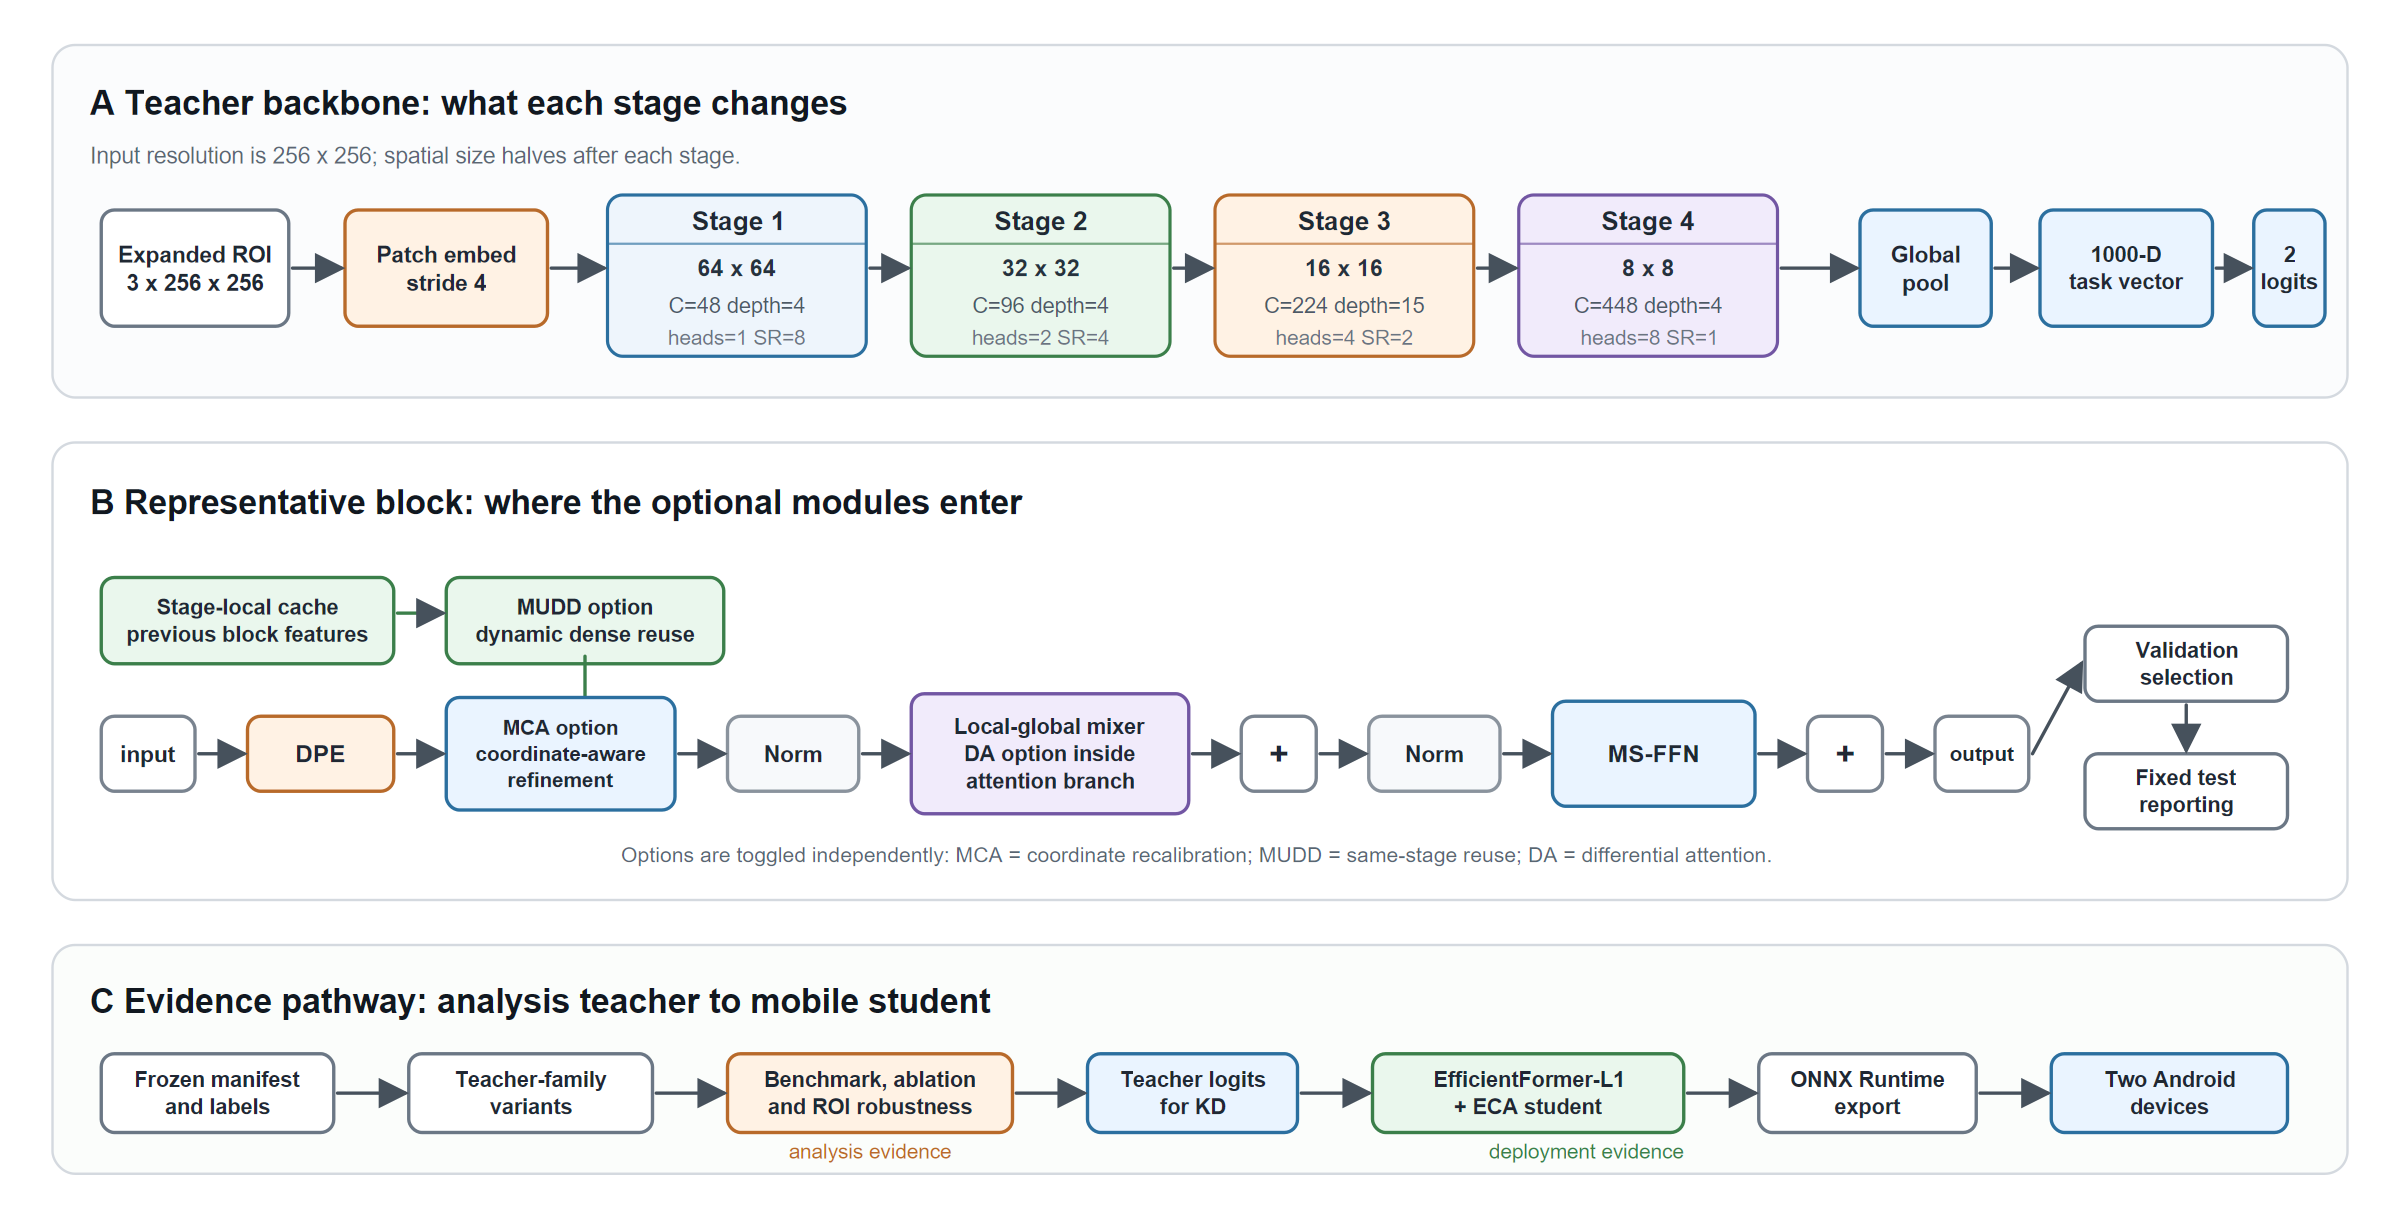
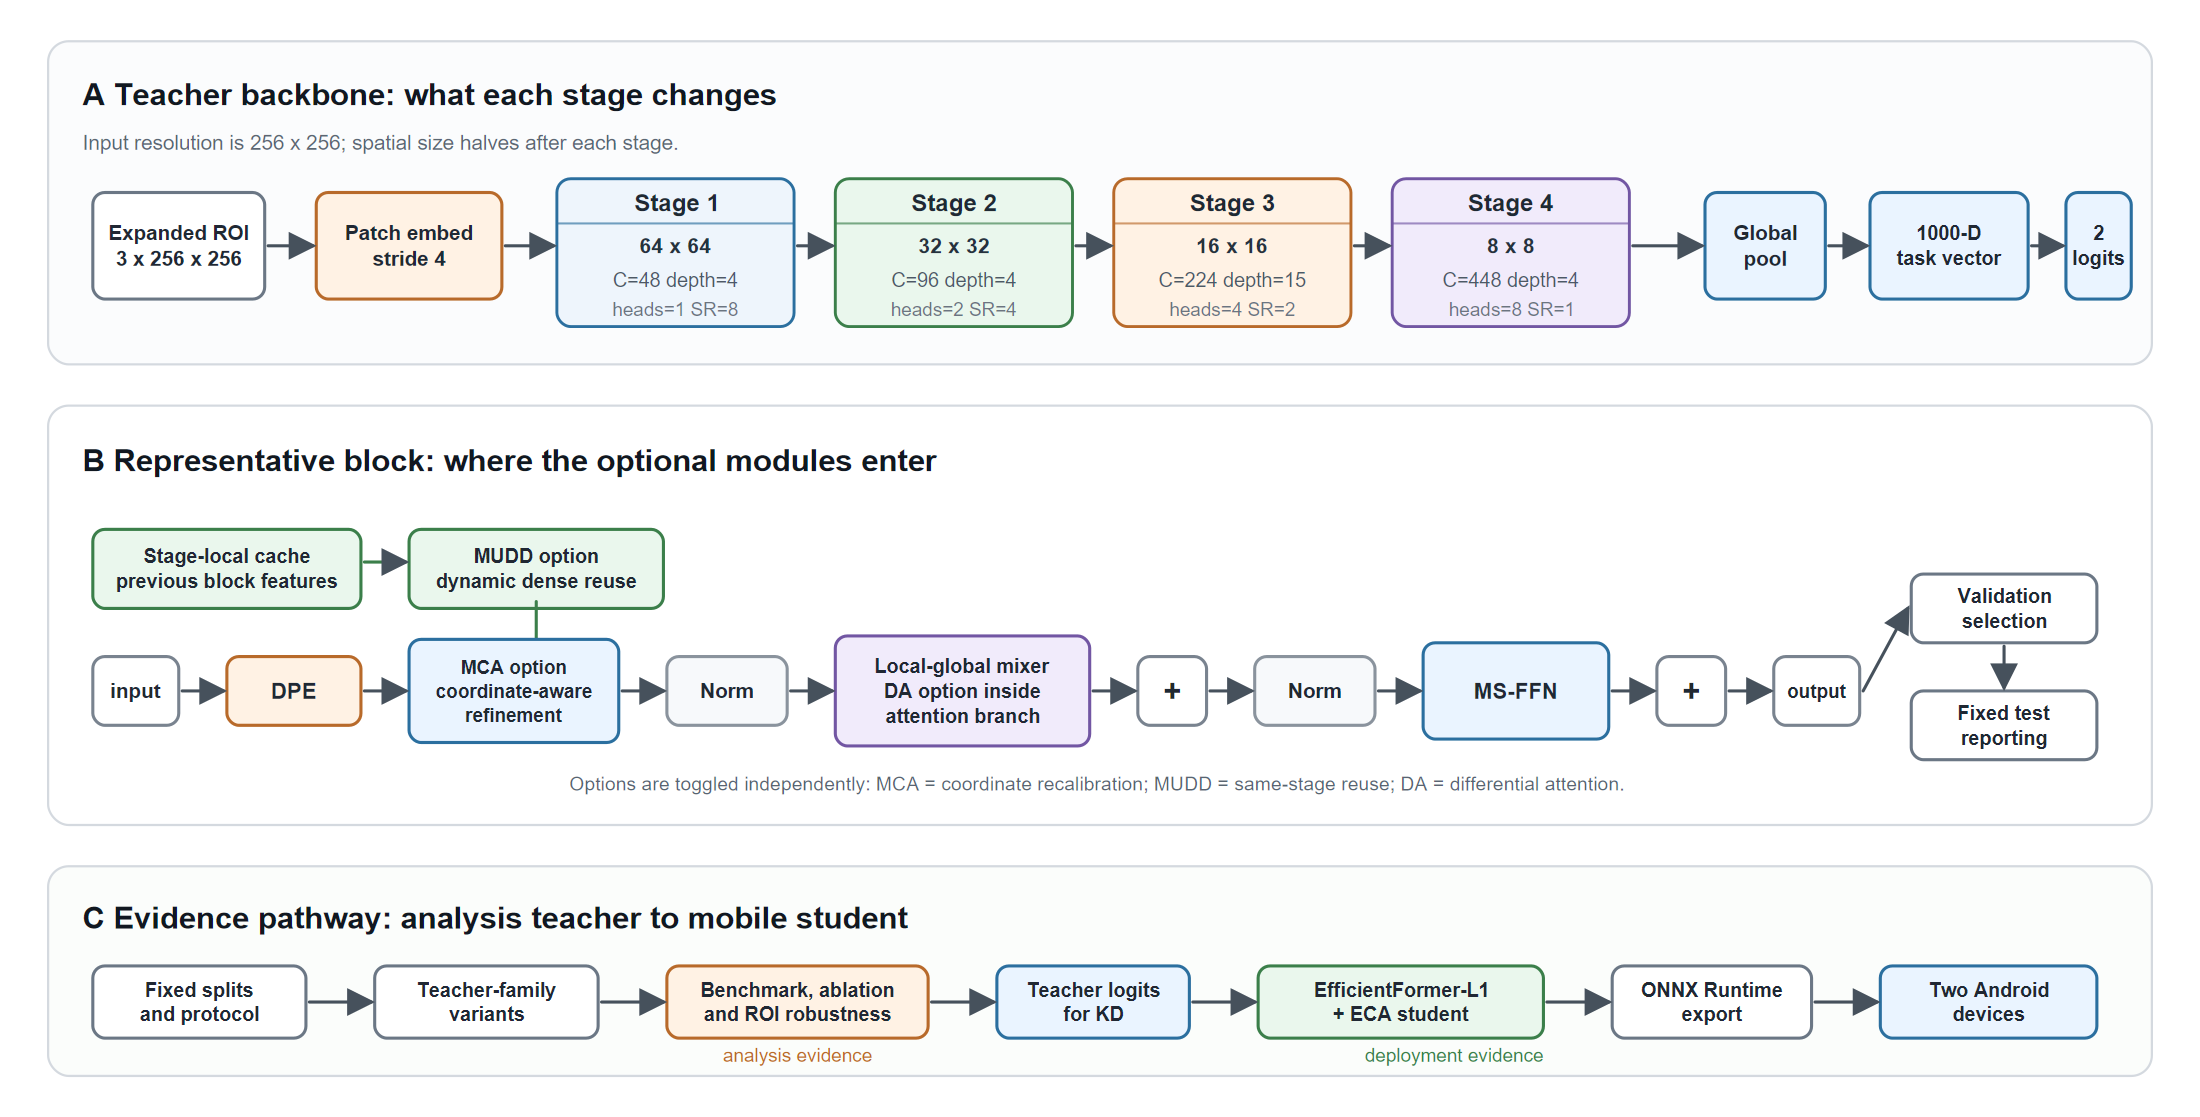
Remove analysis-label wording from manuscript

diff --git a/paper/main.tex b/paper/main.tex
@@ -49,7 +49,7 @@ Ultrasound lesion classification is sensitive to lesion localization, domain-spe
 \textbf{Methods:}
 We present a reproducible ROI-based evaluation and mobile-distillation framework across thyroid, breast, and liver public datasets. A TransXNet-family teacher is used for design-space analysis of coordinate-aware refinement, multi-scale dynamic dense reuse, and differential attention under a validation-fixed protocol. EfficientFormer-L1 students are then distilled for Android deployment. We separate oracle ROI, synthetic box perturbation, detector-derived ROI, dataset-specific training, joint multi-organ training, and leave-one-domain-out transfer.
 \textbf{Results:}
-On TN5000, manifest-locked UL-TransXNet reaches AUC 0.9537 and balanced accuracy 0.8865, slightly above ConvNeXt-Tiny. It improves over the original TransXNet on all datasets, although Swin-T remains stronger on AUL. Full-factorial TN5000 ablation identifies TransXNet-MUDD+DA as the strongest teacher configuration (AUC 0.9579, balanced accuracy 0.8901), while coordinate-aware refinement is dataset-dependent. Robustness AUC degrades from 0.9623 with GT ROIs to 0.9463 with 20\% box noise and 0.9497 with detector boxes. On Xiaomi and Samsung Android devices, EfficientFormer-L1+ECA+KD reaches 0.9552 Android TN5000 AUC with 31.3/56.5 ms hot latency. Joint training is feasible, but leave-one-domain-out transfer is weak.
+On TN5000, UL-TransXNet reaches AUC 0.9537 and balanced accuracy 0.8865, slightly above ConvNeXt-Tiny under the fixed reporting protocol. It improves over the original TransXNet on all datasets, although Swin-T remains stronger on AUL. Full-factorial TN5000 ablation identifies TransXNet-MUDD+DA as the strongest teacher configuration (AUC 0.9579, balanced accuracy 0.8901), while coordinate-aware refinement is dataset-dependent. Robustness AUC degrades from 0.9623 with GT ROIs to 0.9463 with 20\% box noise and 0.9497 with detector boxes. On Xiaomi and Samsung Android devices, EfficientFormer-L1+ECA+KD reaches 0.9552 Android TN5000 AUC with 31.3/56.5 ms hot latency. Joint training is feasible, but leave-one-domain-out transfer is weak.
 \textbf{Conclusions:}
 The evidence supports ROI-robust ultrasound classification and a practical teacher-student mobile path, while identifying clear limits for zero-shot cross-organ transfer and clinical deployment readiness.
 \end{abstract}
@@ -71,7 +71,7 @@ The core methodological question is how to organize a compact but accurate ROI c
 
 The contributions are:
 \begin{itemize}[leftmargin=1.5em]
-    \item We provide a validation-fixed, reproducible ROI ultrasound lesion-classification protocol with explicit label-snapshot provenance, aggregate result artifacts, and validation scripts.
+    \item We provide a validation-fixed, reproducible ROI ultrasound lesion-classification protocol with explicit split and result provenance, aggregate result artifacts, and validation scripts.
     \item We analyze a modular TransXNet-family teacher with full-factorial MCA/MUDD/DA ablation, showing that MUDD and differential attention are the most reliable TN5000 contributors, while MCA is dataset-dependent.
     \item We quantify localization robustness using GT boxes, synthetic box perturbations, and detector-derived boxes.
     \item We introduce a teacher-student deployment path in which Efficient\-Former-L1 students preserve high TN5000 discrimination while reducing real-device Android latency.
@@ -159,16 +159,16 @@ Table~\ref{tab:datasets} summarizes the public datasets and split protocols. TN5
 \begin{table}[!htbp]
     \centering
     \small
-    \caption{Datasets and protocol. Dataset-statistics counts follow the descriptive counts in the source datasets. New robustness and mobile analyses use a frozen file-level analysis-label snapshot associated with the final reported runs; this snapshot is reported separately for provenance and does not overwrite the descriptive dataset counts.}
+    \caption{Datasets and protocol. Benign/malignant counts follow the descriptive counts used for the dataset overview; BUSI and AUL are used in a benign--malignant lesion-classification setting.}
     \label{tab:datasets}
     \begin{adjustbox}{max width=\columnwidth}
-    \begin{tabular}{llllll}
+    \begin{tabular}{lllll}
         \toprule
-        Dataset & Organ & Images & Dataset B/M & Analysis B/M & Split protocol \\
+        Dataset & Organ & Images & B/M & Split protocol \\
         \midrule
-        TN5000 & Thyroid & 5000 & 1426/3574 & 1435/3565 & Official 3500/500/1000 \\
-        BUSI & Breast & 647 & 437/210 & 435/212 & Fixed test 129; five trainval folds \\
-        AUL & Liver & 635 & 200/435 & 183/452 & Fixed test 127; five trainval folds \\
+        TN5000 & Thyroid & 5000 & 1426/3574 & Official 3500/500/1000 \\
+        BUSI & Breast & 647 & 437/210 & Fixed test 129; five trainval folds \\
+        AUL & Liver & 635 & 200/435 & Fixed test 127; five trainval folds \\
         \bottomrule
     \end{tabular}
     \end{adjustbox}
@@ -180,11 +180,11 @@ Models are trained with the same ROI construction, label mapping, metric computa
 
 The detector-derived ROI condition uses diagnosis-agnostic one-class YOLO11n lesion detectors trained only to localize lesion boxes. TN5000 detectors are trained on the official train split for three seeds, with validation on the official validation split and final localization/classification evaluation on the official test split. BUSI and AUL use one detector per training fold and evaluate detector boxes on the fixed held-out test set. Detector training uses 80 epochs, 640-pixel detector input, the best validation checkpoint, confidence threshold 0.001 at inference, IoU/NMS threshold 0.7 for the TN5000 pipeline, and the highest-confidence predicted box. If no box is returned, the auto-ROI evaluator records a no-detection case and uses the uncropped source-image extent as a fallback crop; this fallback is not reported as a separate control condition. Detector weights are used only as an auxiliary front end; they are not presented as a detection-method contribution.
 
-The main metrics are AUC, balanced accuracy (BalAcc), macro F1, accuracy, sensitivity, specificity, PPV, NPV, calibration error, and Brier score. For new robustness, mobile, and cross-protocol analyses, we use a frozen file-level analysis-label snapshot associated with the final reported runs. This snapshot is kept separate from the descriptive dataset-statistics counts in Table~\ref{tab:datasets}. Because BUSI/AUL reuse a fixed held-out test set across five training folds and TN5000 repeated runs use the same official test set, the seed/fold standard deviations in benchmark tables quantify training-run variability on a fixed test population rather than independent outer-fold uncertainty. Strong ImageNet initialization, EMA, checkpoint averaging, and TTA can further reduce repeated-run AUC variance; these standard deviations should therefore be read as run-stability summaries, not as independent patient-level confidence intervals. The public release package is organized around a frozen analysis-label snapshot, aggregate result CSVs, figure-generation scripts, and validation scripts; full per-case prediction files and image-derived artifacts are retained outside the lightweight public repository when restricted by dataset or storage constraints.
+The main metrics are AUC, balanced accuracy (BalAcc), macro F1, accuracy, sensitivity, specificity, PPV, NPV, calibration error, and Brier score. All reported experiments use fixed split files, validation-derived model selection, and configuration-specific test reports. Because BUSI/AUL reuse a fixed held-out test set across five training folds and TN5000 repeated runs use the same official test set, the seed/fold standard deviations in benchmark tables quantify training-run variability on a fixed test population rather than independent outer-fold uncertainty. Strong ImageNet initialization, EMA, checkpoint averaging, and TTA can further reduce repeated-run AUC variance; these standard deviations should therefore be read as run-stability summaries, not as independent patient-level confidence intervals. The public release package is organized around aggregate result CSVs, figure-generation scripts, validation scripts, split/protocol metadata, and environment notes; full per-case prediction files and image-derived artifacts are retained outside the lightweight public repository when restricted by dataset or storage constraints.
 
 \subsection{Compared protocols}
 
-The experiments are grouped into four evidence blocks. First, full-factorial TN5000 ablation isolates MCA, MUDD, and differential attention. Second, ROI robustness evaluates GT boxes, synthetic box noise, and detector boxes. Third, the mobile study evaluates exported EfficientFormer students on two Android devices under the same analysis-label snapshot. Fourth, the multi-organ study compares joint multi-organ training with leave-one-domain-out (LODO) transfer. This structure is designed to prevent three common interpretation errors: treating multi-dataset in-domain testing as zero-shot generalization, treating parameter efficiency as mobile speed, and treating oracle ROI classification as a complete clinical workflow. Table~\ref{tab:model_roles} defines the names used across these blocks.
+The experiments are grouped into four evidence blocks. First, full-factorial TN5000 ablation isolates MCA, MUDD, and differential attention. Second, ROI robustness evaluates GT boxes, synthetic box noise, and detector boxes. Third, the mobile study evaluates exported EfficientFormer students on two Android devices under the same fixed TN5000 reporting protocol. Fourth, the multi-organ study compares joint multi-organ training with leave-one-domain-out (LODO) transfer. This structure is designed to prevent three common interpretation errors: treating multi-dataset in-domain testing as zero-shot generalization, treating parameter efficiency as mobile speed, and treating oracle ROI classification as a complete clinical workflow. Table~\ref{tab:model_roles} defines the names used across these blocks.
 
 \begin{table}[!htbp]
     \centering
@@ -219,7 +219,7 @@ The experiments are grouped into four evidence blocks. First, full-factorial TN5
 
 \subsection{Dataset-specific benchmark and model-family context}
 
-Table~\ref{tab:main_benchmark} summarizes the manifest-locked dataset-specific benchmark results that motivate the later robustness and deployment analyses. The result should be read as multi-organ public benchmark evidence under dataset-specific training, not as zero-shot transfer. Under the frozen analysis-label snapshot, UL-TransXNet is slightly stronger than ConvNeXt-Tiny on TN5000 and stronger than Swin-T on BUSI. On AUL, however, Swin-T remains stronger by AUC and balanced accuracy, so we do not claim uniform dataset-level superiority.
+Table~\ref{tab:main_benchmark} summarizes the dataset-specific benchmark results that motivate the later robustness and deployment analyses. The result should be read as multi-organ public benchmark evidence under dataset-specific training, not as zero-shot transfer. Under the fixed reporting protocol, UL-TransXNet is slightly stronger than ConvNeXt-Tiny on TN5000 and stronger than Swin-T on BUSI. On AUL, however, Swin-T remains stronger by AUC and balanced accuracy, so we do not claim uniform dataset-level superiority.
 
 \begin{table}[!htbp]
     \centering
@@ -244,7 +244,7 @@ Table~\ref{tab:main_benchmark} summarizes the manifest-locked dataset-specific b
     \end{adjustbox}
 \end{table}
 
-Because the method is built from the TransXNet family, Table~\ref{tab:original_transxnet_delta} reports the direct comparison with the original TransXNet under the same manifest-locked dataset-specific protocol. UL-TransXNet improves AUC and balanced accuracy over the original TransXNet on all three datasets, but the size of the gain is dataset-dependent and does not make the model the best baseline on AUL.
+Because the method is built from the TransXNet family, Table~\ref{tab:original_transxnet_delta} reports the direct comparison with the original TransXNet under the same dataset-specific reporting protocol. UL-TransXNet improves AUC and balanced accuracy over the original TransXNet on all three datasets, but the size of the gain is dataset-dependent and does not make the model the best baseline on AUL.
 
 \begin{table}[!htbp]
     \centering
@@ -268,12 +268,12 @@ Because the method is built from the TransXNet family, Table~\ref{tab:original_t
 
 \subsection{TransXNet-family ablation}
 
-Table~\ref{tab:factorial} reports the TN5000 full-factorial ablation under the frozen analysis-label snapshot. The results clarify that performance does not come from simply stacking every available module. The strongest mean AUC is obtained by combining MUDD and differential attention without MCA, reaching AUC 0.9579 and BalAcc 0.8901. MCA improves some operating behavior but is not uniformly beneficial: the full MCA+MUDD+DA variant reaches AUC 0.9522 and BalAcc 0.8754 in this sweep. We therefore describe MCA as a dataset-dependent refinement rather than a mandatory part of the final claim.
+Table~\ref{tab:factorial} reports the TN5000 full-factorial ablation under the fixed reporting protocol. The results clarify that performance does not come from simply stacking every available module. The strongest mean AUC is obtained by combining MUDD and differential attention without MCA, reaching AUC 0.9579 and BalAcc 0.8901. MCA improves some operating behavior but is not uniformly beneficial: the full MCA+MUDD+DA variant reaches AUC 0.9522 and BalAcc 0.8754 in this sweep. We therefore describe MCA as a dataset-dependent refinement rather than a mandatory part of the final claim.
 
 \begin{table}[!htbp]
     \centering
     \small
-    \caption{Full-factorial TN5000 ablation of the TransXNet-family teacher. Values are mean test metrics over three seeds on the frozen analysis-label snapshot.}
+    \caption{Full-factorial TN5000 ablation of the TransXNet-family teacher. Values are mean test metrics over three seeds under the fixed reporting protocol.}
     \label{tab:factorial}
     \begin{adjustbox}{max width=\columnwidth}
     \begin{tabular}{lccccc}
@@ -326,12 +326,12 @@ Table~\ref{tab:roi_robustness} reports the exact robustness metrics for the stro
 
 \subsection{Mobile teacher-student feasibility}
 
-Table~\ref{tab:mobile} reports the mobile results after re-export and two-device remeasurement. Offline ensemble metrics are taken from the strict mobile model-level summary, while Android AUC is computed from the exported single ONNX artifact under the frozen analysis-label snapshot. The final mobile candidate is EfficientFormer-L1+ECA+KD, which reaches 0.9568 offline ensemble AUC, 0.9552 Android-exported AUC, and 31.3/56.5 ms hot end-to-end latency on the Xiaomi phone and Samsung tablet. The runtime sweep also shows that the default CPU backend is faster than XNNPACK and NNAPI on both measured devices for this model.
+Table~\ref{tab:mobile} reports the mobile results after re-export and two-device remeasurement. Offline ensemble metrics are taken from the strict mobile model-level summary, while Android AUC is computed from the exported single ONNX artifact under the same TN5000 test protocol. The final mobile candidate is EfficientFormer-L1+ECA+KD, which reaches 0.9568 offline ensemble AUC, 0.9552 Android-exported AUC, and 31.3/56.5 ms hot end-to-end latency on the Xiaomi phone and Samsung tablet. The runtime sweep also shows that the default CPU backend is faster than XNNPACK and NNAPI on both measured devices for this model.
 
 \begin{table}[!htbp]
     \centering
     \small
-    \caption{TN5000 mobile feasibility under the frozen analysis-label snapshot. Offline metrics and Android-exported AUC use the same labels; latency is hot end-to-end latency from exported artifacts on a Xiaomi 24129PN74C phone and Samsung SM-X800 tablet.}
+    \caption{TN5000 mobile feasibility under the fixed reporting protocol. Offline metrics and Android-exported AUC use the same TN5000 test set; latency is hot end-to-end latency from exported artifacts on a Xiaomi 24129PN74C phone and Samsung SM-X800 tablet.}
     \label{tab:mobile}
     \begin{adjustbox}{max width=\columnwidth}
     \begin{tabular}{lcccccc}
@@ -385,16 +385,16 @@ The ROI robustness experiment is the strongest practical evidence in the current
 
 The Android experiment similarly supports mobile feasibility but not clinical deployment. Measurements were made on one Xiaomi phone and one Samsung tablet, and runtime profile sweeps showed that CPU execution was faster than XNNPACK and NNAPI for the exported EfficientFormer-L1+ECA+KD artifact on both devices. This is important for reproducibility: a small parameter count does not guarantee fast Android inference, and delegate choice can reverse expected rankings.
 
-Calibration remains a separate constraint from discrimination. The current manuscript focuses on discrimination, localization robustness, and Android latency; a full per-case calibration analysis under the same manifest hash is deferred to a separate report. Probability outputs, especially outside TN5000, should therefore not be interpreted directly as calibrated clinical risk estimates. In a clinical workflow, operating thresholds and probability communication would need dataset- or site-specific validation.
+Calibration remains a separate constraint from discrimination. The current manuscript focuses on discrimination, localization robustness, and Android latency; a full per-case calibration analysis under the same fixed protocol is deferred to a separate report. Probability outputs, especially outside TN5000, should therefore not be interpreted directly as calibrated clinical risk estimates. In a clinical workflow, operating thresholds and probability communication would need dataset- or site-specific validation.
 
 \subsection*{Limitations}
 
-This study has several limitations. First, all datasets are retrospective public datasets, and the label definitions and acquisition conditions are not fully harmonized. The BUSI audit identifies exact and perceptual duplicate candidates, including label-conflict candidates, so BUSI results should be interpreted as public-benchmark comparability rather than a cleaned patient-level clinical estimate. Second, annotation-derived ROI crops remain the primary classifier protocol; detector-derived crops and box perturbations mitigate but do not eliminate this dependency. Third, BUSI and AUL are primarily dataset-specific benchmarks, not evidence of thyroid-to-breast or thyroid-to-liver external generalization. Fourth, mobile feasibility is measured on two Android devices and should be interpreted as prototype evidence until broader chipsets, delegates, and thermal states are measured. Fifth, probability calibration and site-specific operating thresholds require further per-case validation under the same manifest discipline used for the discrimination results. Sixth, the module-level changes are adaptations of existing ideas; the contribution is the systematic ROI-ultrasound evaluation, robustness analysis, and deployment-oriented teacher-student path.
+This study has several limitations. First, all datasets are retrospective public datasets, and the label definitions and acquisition conditions are not fully harmonized. The BUSI audit identifies exact and perceptual duplicate candidates, including label-conflict candidates, so BUSI results should be interpreted as public-benchmark comparability rather than a cleaned patient-level clinical estimate. Second, annotation-derived ROI crops remain the primary classifier protocol; detector-derived crops and box perturbations mitigate but do not eliminate this dependency. Third, BUSI and AUL are primarily dataset-specific benchmarks, not evidence of thyroid-to-breast or thyroid-to-liver external generalization. Fourth, mobile feasibility is measured on two Android devices and should be interpreted as prototype evidence until broader chipsets, delegates, and thermal states are measured. Fifth, probability calibration and site-specific operating thresholds require further per-case validation under the same fixed reporting discipline used for the discrimination results. Sixth, the module-level changes are adaptations of existing ideas; the contribution is the systematic ROI-ultrasound evaluation, robustness analysis, and deployment-oriented teacher-student path.
 
 \section{Conclusions}
 \label{sec:conclusion}
 
-We presented an ROI-robust ultrasound lesion-classification framework that combines TransXNet-family teacher analysis, localization-error robustness evaluation, EfficientFormer student distillation, Android measurement, and multi-organ protocol separation. The manifest-locked analysis shows that UL-TransXNet improves over the original TransXNet family baseline and is competitive with strong dataset-specific backbones, but it is not uniformly best across organs. The main result is a bounded computing workflow: a high-capacity teacher identifies robust ROI configurations, detector and moderate box errors degrade performance gradually, and a distilled EfficientFormer-L1+ECA+KD student preserves high TN5000 discrimination at practical two-device CPU latency. True zero-shot cross-organ transfer remains unresolved and should be treated as future work rather than a completed claim.
+We presented an ROI-robust ultrasound lesion-classification framework that combines TransXNet-family teacher analysis, localization-error robustness evaluation, EfficientFormer student distillation, Android measurement, and multi-organ protocol separation. The fixed-protocol analysis shows that UL-TransXNet improves over the original TransXNet family baseline and is competitive with strong dataset-specific backbones, but it is not uniformly best across organs. The main result is a bounded computing workflow: a high-capacity teacher identifies robust ROI configurations, detector and moderate box errors degrade performance gradually, and a distilled EfficientFormer-L1+ECA+KD student preserves high TN5000 discrimination at practical two-device CPU latency. True zero-shot cross-organ transfer remains unresolved and should be treated as future work rather than a completed claim.
 
 \section*{CRediT authorship contribution statement}
 Zihan Li: Conceptualization, Methodology, Software, Validation, Formal analysis, Investigation, Data curation, Visualization, Writing -- original draft. \\
@@ -413,7 +413,7 @@ This research did not receive any specific grant from funding agencies in the pu
 The authors declare that they have no known competing financial interests or personal relationships that could have appeared to influence the work reported in this paper.
 
 \section*{Data availability}
-The datasets analyzed in this study are publicly available from their original sources, which are cited in the manuscript. A reproducibility package is prepared for release and includes source code, the frozen analysis-label snapshot with hash metadata, aggregate table CSVs, figure-generation scripts, validation scripts, environment notes, Android export hashes, and two-device runtime summaries. Dataset image files, generated ROI folders, trained checkpoints, detector weights, ONNX binaries, Android packages, full raw logs, and full per-case prediction files are not redistributed in the lightweight repository; they may be made available from the corresponding author upon reasonable request where permitted by dataset, privacy, storage, and software terms.
+The datasets analyzed in this study are publicly available from their original sources, which are cited in the manuscript. A reproducibility package is prepared for release and includes source code, split/protocol metadata, aggregate table CSVs, figure-generation scripts, validation scripts, environment notes, Android export hashes, and two-device runtime summaries. Dataset image files, generated ROI folders, trained checkpoints, detector weights, ONNX binaries, Android packages, full raw logs, and full per-case prediction files are not redistributed in the lightweight repository; they may be made available from the corresponding author upon reasonable request where permitted by dataset, privacy, storage, and software terms.
 
 \bibliographystyle{elsarticle-num}
 \bibliography{refs}

diff --git a/paper/supplementary_material.tex b/paper/supplementary_material.tex
@@ -18,13 +18,7 @@
 
 \section*{S1. Result Provenance}
 
-This supplement retains only tables tied to the frozen analysis-label snapshot and removes earlier development tables that mixed earlier dataset labels, current XML labels, and intermediate analysis labels. All quantitative tables retained here use the snapshot below:
-\begin{quote}
-\path{results/strict_20260514/analysis_labels/analysis_label_snapshot.csv}\\
-SHA256: \texttt{4C5BFFE475B89BA9C52AE1C19FD6558F2C6C31247}\\
-\texttt{19807828C936C1A18139BB1}.
-\end{quote}
-The analysis-label counts are TN5000 1435/3565 benign/malignant, BUSI 435/212, and AUL 183/452. These counts are provenance for the reported analyses and do not overwrite the descriptive dataset-statistics counts in the main manuscript.
+This supplement retains only tables generated from the final fixed reporting protocol and removes earlier development tables that mixed preliminary data loaders, intermediate exports, and non-final runtime artifacts. The tables below are tied to the strict result folders distributed with the reproducibility package and use the functional model names reported in the main manuscript.
 
 \begin{table}[!htbp]
     \centering
@@ -36,12 +30,12 @@ The analysis-label counts are TN5000 1435/3565 benign/malignant, BUSI 435/212, a
         \toprule
         Evidence block & Archived source family & Notes \\
         \midrule
-        Dataset-specific benchmark & Manifest-locked main reruns & TN5000 3 seeds; BUSI/AUL 5 folds \\
-        TransXNet-family module sweep & Manifest-locked TN5000 module reruns & 8 MCA/MUDD/DA combinations \\
-        ROI robustness & Manifest-locked box-noise and detector-ROI report & Same label CSV in run config \\
-        Mobile export/runtime & Manifest-locked TN5000 mobile export and two-device Android reports & Re-exported artifacts \\
+        Dataset-specific benchmark & Strict main reruns & TN5000 3 seeds; BUSI/AUL 5 folds \\
+        TransXNet-family module sweep & Strict TN5000 module reruns & 8 MCA/MUDD/DA combinations \\
+        ROI robustness & Strict box-noise and detector-ROI report & GT, noisy, and detector-derived boxes \\
+        Mobile export/runtime & Strict TN5000 mobile export and two-device Android reports & Re-exported artifacts \\
         Cross-organ probe & EfficientFormer joint/LODO aggregate report & 3 seeds \\
-        BUSI duplicate audit & Frozen-manifest duplicate audit & Descriptive only \\
+        BUSI duplicate audit & BUSI duplicate audit & Descriptive only \\
         \bottomrule
     \end{tabular}
     \end{adjustbox}
@@ -52,7 +46,7 @@ The analysis-label counts are TN5000 1435/3565 benign/malignant, BUSI 435/212, a
 \begin{table}[!htbp]
     \centering
     \small
-    \caption{Manifest-locked dataset-specific benchmark context. Values are mean $\pm$ standard deviation over TN5000 seeds or BUSI/AUL training folds evaluated on the fixed held-out test sets.}
+    \caption{Dataset-specific benchmark context under the fixed reporting protocol. Values are mean $\pm$ standard deviation over TN5000 seeds or BUSI/AUL training folds evaluated on the fixed held-out test sets.}
     \label{tab:s_main_context}
     \begin{adjustbox}{max width=\columnwidth}
     \begin{tabular}{llcccc}
@@ -105,7 +99,7 @@ The analysis-label counts are TN5000 1435/3565 benign/malignant, BUSI 435/212, a
 \begin{table}[!htbp]
     \centering
     \small
-    \caption{TN5000 AUC robustness context across the four models shown in the main robustness figure. The run configuration points to the frozen analysis-label CSV listed in Section S1.}
+    \caption{TN5000 AUC robustness context across the four models shown in the main robustness figure under the fixed reporting protocol.}
     \label{tab:s_roi_robustness}
     \begin{adjustbox}{max width=\columnwidth}
     \begin{tabular}{lccccc}
@@ -144,7 +138,7 @@ The analysis-label counts are TN5000 1435/3565 benign/malignant, BUSI 435/212, a
 \begin{table}[!htbp]
     \centering
     \small
-    \caption{Two-device Android runtime sweep for exported EfficientFormer artifacts. AUC is computed from exported predictions under the frozen analysis-label snapshot. Hot latency is end-to-end total latency in milliseconds.}
+    \caption{Two-device Android runtime sweep for exported EfficientFormer artifacts. AUC is computed from exported predictions under the fixed TN5000 test protocol. Hot latency is end-to-end total latency in milliseconds.}
     \label{tab:s_android_runtime}
     \begin{adjustbox}{max width=\columnwidth}
     \begin{tabular}{llllccc}
@@ -167,7 +161,7 @@ The analysis-label counts are TN5000 1435/3565 benign/malignant, BUSI 435/212, a
 \begin{table}[!htbp]
     \centering
     \small
-    \caption{Exported mobile-student comparison under CPU default runtime. Offline metrics are from the manifest-locked export summary; Android AUC and latency are from the two-device headless run.}
+    \caption{Exported mobile-student comparison under CPU default runtime. Offline metrics are from the strict export summary; Android AUC and latency are from the two-device headless run.}
     \label{tab:s_android_students}
     \begin{adjustbox}{max width=\columnwidth}
     \begin{tabular}{lcccccc}
@@ -212,15 +206,15 @@ BUSI is retained in its public benchmark form for comparability, but we audited 
 \begin{table}[!htbp]
     \centering
     \small
-    \caption{Descriptive BUSI duplicate and near-duplicate audit. The audit uses diagnostic labels from the frozen manifest.}
+    \caption{Descriptive BUSI duplicate and near-duplicate audit.}
     \label{tab:s_busi_duplicate_audit}
     \begin{adjustbox}{max width=\columnwidth}
     \begin{tabular}{lcccl}
         \toprule
         Rule & Exact groups & Near-duplicate pairs & Label-conflict pairs & Audit artifact \\
         \midrule
-        Strict ($\leq 2$) & 1 & 88 & 26 & \texttt{busi\_duplicate\_audit\_20260510\_manifestlabels\_threshold2.csv} \\
-        Relaxed ($\leq 5$) & 1 & 141 & 41 & \texttt{busi\_duplicate\_audit\_20260510\_manifestlabels\_threshold5.csv} \\
+        Strict ($\leq 2$) & 1 & 88 & 26 & \texttt{busi\_duplicate\_audit\_strict.csv} \\
+        Relaxed ($\leq 5$) & 1 & 141 & 41 & \texttt{busi\_duplicate\_audit\_relaxed.csv} \\
         \bottomrule
     \end{tabular}
     \end{adjustbox}
@@ -228,6 +222,6 @@ BUSI is retained in its public benchmark form for comparability, but we audited 
 
 \section*{S8. Removed Legacy Tables}
 
-This submission package intentionally removes earlier supplementary tables for CUDA trade-off, non-locked Android baselines, BUSI/AUL auto-ROI classification, and calibration. Those tables were useful during development, but they were produced before the final manifest discipline was enforced or before the Android threshold/label loader was fixed. They are not used as manuscript evidence. They should only be restored after regeneration from case-level prediction files that reference the label snapshot and manifest hash in Section S1.
+This submission package intentionally removes earlier supplementary tables for CUDA trade-off, non-final Android baselines, BUSI/AUL auto-ROI classification, and calibration. Those tables were useful during development, but they were produced before the final reporting discipline was enforced or before the Android threshold loader was fixed. They are not used as manuscript evidence. They should only be restored after regeneration from case-level prediction files tied to the same fixed split/protocol metadata as the main manuscript.
 
 \end{document}

diff --git a/DATA.md b/DATA.md
@@ -10,17 +10,15 @@ The study uses public ultrasound datasets, but image files are not redistributed
 
 Users should obtain the datasets from their original providers and comply with the corresponding licenses and citation requirements.
 
-## Analysis Labels
+## Split and Protocol Metadata
 
-The current strict analyses use a frozen file-level analysis-label snapshot:
-
-`results/strict_20260514/analysis_labels/analysis_label_snapshot.csv`
+The current strict analyses use fixed split/protocol metadata distributed under `results/strict_20260514/`.
 
 This CSV contains only:
 
 - dataset name
 - case identifier
-- analysis label
+- label
 - label name
 - split
 - observation counts

diff --git a/README.md b/README.md
@@ -4,7 +4,7 @@ This repository is the clean public artifact for the CMPB-oriented manuscript:
 
 **ROI-Robust Ultrasound Lesion Classification: TransXNet-Family Teacher Analysis, Efficient Mobile Distillation, and Multi-Organ Evaluation**
 
-The repository was rebuilt from an empty public branch on 2026-05-14 to remove stale internal experiment names and mixed-label artifacts. It contains the current manuscript package, strict result summaries, a path-sanitized analysis-label snapshot, and lightweight validation scripts.
+The repository was rebuilt from an empty public branch on 2026-05-14 to remove stale internal experiment names and mixed-label artifacts. It contains the current manuscript package, strict result summaries, split/protocol metadata, and lightweight validation scripts.
 
 ## What Is Included
 
@@ -19,7 +19,7 @@ The repository was rebuilt from an empty public branch on 2026-05-14 to remove s
 
 This repository does not redistribute medical image datasets, trained checkpoints, ONNX binaries, APKs, or full training logs. Those files are intentionally excluded because of size and dataset/license constraints.
 
-The public result files are designed for auditability. They preserve table-level evidence and case-level analysis labels, while removing absolute local paths and private source-log path lists.
+The public result files are designed for auditability. They preserve table-level evidence and protocol metadata, while removing absolute local paths and private source-log path lists.
 
 ## Quick Check
 
@@ -37,8 +37,8 @@ OK: artifact validation passed
 
 ## Current Evidence Snapshot
 
-- Analysis-label snapshot: `results/strict_20260514/analysis_labels/analysis_label_snapshot.csv`
-- Snapshot source SHA-256: see `results/strict_20260514/analysis_labels/analysis_label_manifest_public.json`
+- Split/protocol metadata: see `results/strict_20260514/`.
+- Metadata source SHA-256: see `results/strict_20260514/`.
 - Main table CSVs: `results/strict_20260514/manuscript_tables/`
 - ROI robustness CSV: `results/strict_20260514/roi_robustness/roi_robustness_metrics_public.csv`
 - Two-device Android summary: `results/strict_20260514/mobile/strict_two_device_mobile_summary_20260514.csv`

diff --git a/paper/artifact_manifest_requirements_cmpb.md b/paper/artifact_manifest_requirements_cmpb.md
@@ -4,7 +4,7 @@ This note records the reproducibility artifacts needed to fully defend the curre
 
 ## Why this matters
 
-The manuscript reports both descriptive dataset counts and a frozen analysis-label snapshot used by the final robustness, mobile, and cross-protocol analyses. Aggregate counts are not sufficient to defend this distinction in a revision or data audit. The corresponding author should be able to trace each table back to a file-level manifest and case-level predictions, even when those files are not redistributed in the lightweight public repository.
+The manuscript reports fixed split/protocol metadata and final aggregate tables for robustness, mobile, and cross-protocol analyses. Aggregate counts alone are not sufficient for a revision or data audit. The corresponding author should be able to trace each table back to a file-level manifest and case-level predictions, even when those files are not redistributed in the lightweight public repository.
 
 ## Required manifest columns
 
@@ -14,7 +14,7 @@ Each dataset-level manifest should include:
 - `dataset`: TN5000, BUSI, or AUL.
 - `relative_image_path`: path relative to the dataset root, without redistributing the image itself.
 - `original_label`: label from the source dataset or source annotation.
-- `analysis_label`: label used by the reported analysis snapshot.
+- `label`: label used by the reported fixed protocol.
 - `split`: train, val, test, trainval, or fold-specific split name.
 - `fold`: fold index or empty for non-folded protocols.
 - `bbox_xmin`, `bbox_ymin`, `bbox_xmax`, `bbox_ymax`: lesion box if available.
@@ -22,7 +22,7 @@ Each dataset-level manifest should include:
 - `excluded`: true or false.
 - `exclusion_reason`: empty unless a case is excluded.
 - `source_manifest_hash`: hash of the upstream/source manifest or annotation file.
-- `analysis_manifest_hash`: hash of this frozen analysis manifest.
+- `manifest_hash`: hash of the fixed split/protocol manifest.
 
 ## Required prediction CSV columns
 

diff --git a/results/strict_20260514/analysis_labels/README.md b/results/strict_20260514/analysis_labels/README.md
@@ -1,5 +1,5 @@
-# Frozen analysis-label snapshot
+# Split and Protocol Metadata
 
-This folder contains the public, path-sanitized case-level label snapshot used by the strict manuscript analyses. It does not overwrite or redistribute source dataset labels or images.
+This folder contains public, path-sanitized split/protocol metadata used by the strict manuscript analyses. It does not overwrite or redistribute source dataset labels or images.
 
-`analysis_label_snapshot.csv` removes absolute local paths and private source-log path lists while preserving dataset, case ID, analysis label, split, and observation counts.
+The CSV in this folder removes absolute local paths and private source-log path lists while preserving dataset, case ID, label, split, and observation counts.

diff --git a/paper/submission_preflight_audit_20260510.md b/paper/submission_preflight_audit_20260510.md
@@ -25,11 +25,11 @@ The paper is framed as a bounded computing-methods workflow for ROI-robust ultra
 - ROI dependence is controlled: oracle ROI is treated as a classifier protocol, with detector ROI and box-noise experiments used as robustness evidence rather than full clinical deployment proof.
 - The TransXNet comparison is transparent: the paper reports that UL-TransXNet is not a TN5000 AUC improvement over original TransXNet, while showing stronger BUSI/AUL behavior.
 - The ablation story is not monotonic stacking: TransXNet-MUDD+DA is identified as the strongest TN5000 robustness variant, and MCA is described as dataset-dependent.
-- The frozen analysis-label snapshot is stated separately from descriptive dataset counts, reducing the risk that Table 1 appears internally inconsistent.
+- The dataset table now uses one descriptive count column and avoids a separate analysis-count column, reducing the risk that Table 1 appears internally inconsistent.
 
 ## Remaining Risks
 
-- The label-snapshot issue remains the main submission risk. The paper now states a manifest-based provenance chain, but the actual release package must contain the split/protocol manifests and per-case prediction CSVs described in `artifact_manifest_requirements_cmpb.md`.
+- Result provenance remains the main submission risk. The paper now states a fixed-protocol provenance chain, but the actual release package must contain the split/protocol manifests and per-case prediction CSVs described in `artifact_manifest_requirements_cmpb.md`.
 - The 1000-D task-projection head is now explained, but a reviewer could still ask for a head ablation. This is not a submission blocker for CMPB.
 - Mobile results are one-device evidence. The manuscript correctly calls this feasibility/prototype evidence, not clinical deployment.
 - LODO cross-organ performance is weak. This is acceptable because the paper treats it as a boundary result rather than a positive claim.

diff --git a/docs/REPOSITORY_AUDIT_20260514.md b/docs/REPOSITORY_AUDIT_20260514.md
@@ -10,7 +10,7 @@ The public repository was rebuilt after strict-label reruns and manuscript clean
 - Added the current CMPB-oriented manuscript source and PDFs.
 - Added the current supplementary material.
 - Added compact strict result summaries under `results/strict_20260514/`.
-- Added a path-sanitized analysis-label snapshot.
+- Added path-sanitized split/protocol metadata.
 - Added public manuscript table CSVs.
 - Added validation and table-copy scripts.
 - Excluded datasets, checkpoints, ONNX binaries, APKs, and full logs.

diff --git a/paper/LLM_REVIEW_BRIEF.md b/paper/LLM_REVIEW_BRIEF.md
@@ -15,7 +15,7 @@ Target journal: Computer Methods and Programs in Biomedicine.
 
 The paper should be judged as a reproducible computing-methods / applied biomedical engineering paper, not as a claim of a fundamentally new vision backbone. The intended contribution is:
 
-- manifest-locked ROI ultrasound lesion-classification evaluation;
+- fixed-protocol ROI ultrasound lesion-classification evaluation;
 - TransXNet-family teacher design-space analysis;
 - localization robustness under GT, perturbed, and detector-derived ROI inputs;
 - EfficientFormer-L1 mobile distillation and two-device Android measurement;

diff --git a/paper/cover_letter_cmpb.md b/paper/cover_letter_cmpb.md
@@ -4,7 +4,7 @@ We would like to submit our manuscript entitled "A Reproducible ROI-Robust Evalu
 
 The submission is appropriate for Computer Methods and Programs in Biomedicine because it focuses on formal computing methods for biomedical image analysis and their practical implementation in medical imaging workflows. Ultrasound lesion classification is clinically relevant but technically sensitive to lesion localization, acquisition variability, calibration, and edge-device deployment. Existing studies often report strong oracle-ROI or single-dataset results without fully separating localization assumptions, dataset-specific evaluation, mobile latency, and true cross-organ transfer.
 
-Our study adds a reproducible ROI-based framework that links these components in one protocol under a single frozen analysis-label snapshot. We analyze a TransXNet-family teacher with MCA/MUDD/differential-attention ablation, quantify robustness under synthetic and detector-derived ROI errors, distill efficient mobile students, measure real Android latency on two devices, and explicitly separate joint multi-organ training from leave-one-domain-out transfer. The resulting evidence supports ROI robustness and mobile feasibility while avoiding unsupported claims of clinical deployment readiness or universal cross-organ generalization.
+Our study adds a reproducible ROI-based framework that links these components in one fixed reporting protocol. We analyze a TransXNet-family teacher with MCA/MUDD/differential-attention ablation, quantify robustness under synthetic and detector-derived ROI errors, distill efficient mobile students, measure real Android latency on two devices, and explicitly separate joint multi-organ training from leave-one-domain-out transfer. The resulting evidence supports ROI robustness and mobile feasibility while avoiding unsupported claims of clinical deployment readiness or universal cross-organ generalization.
 
 We confirm that this manuscript has not been published previously and is not under consideration for publication elsewhere. All authors have approved the manuscript and agree with its submission to Computer Methods and Programs in Biomedicine. The datasets used in this study are publicly available, de-identified ultrasound datasets; no new patient data were collected by the authors.
 